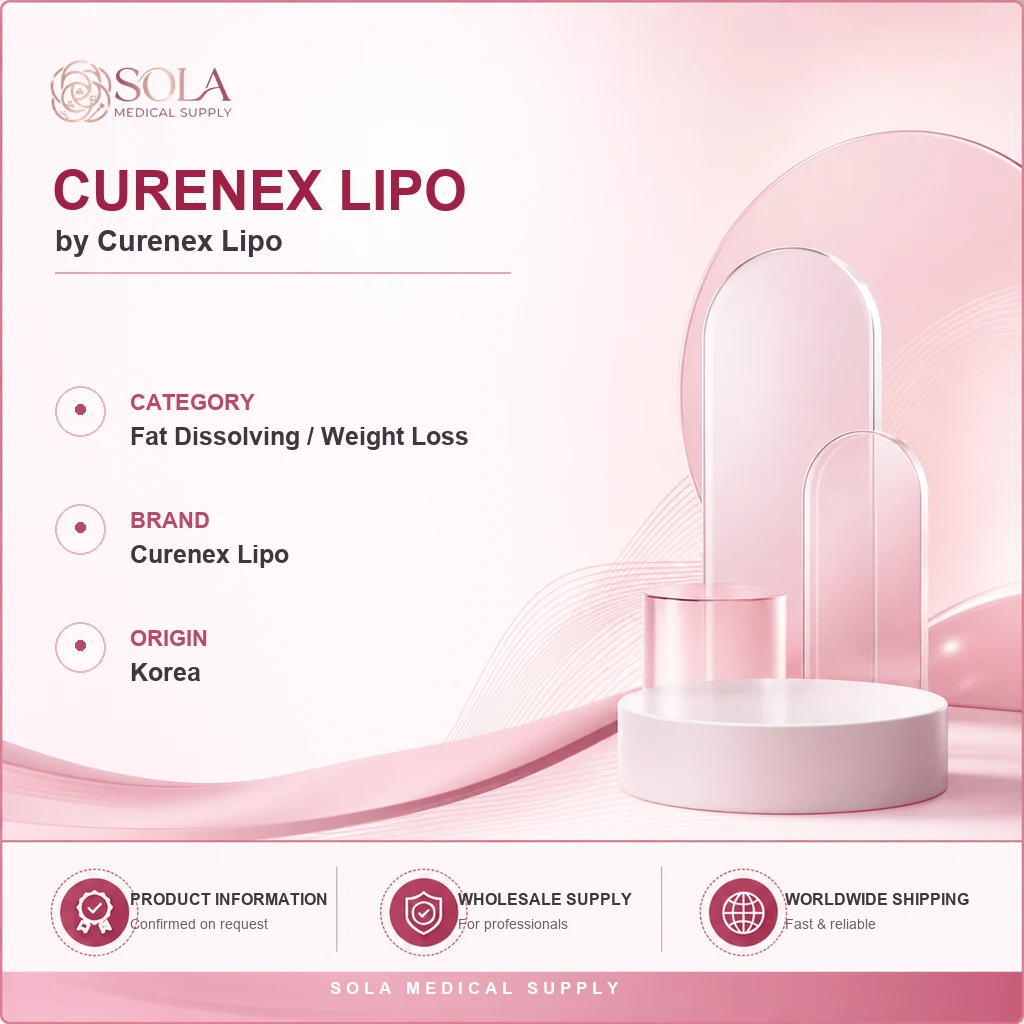
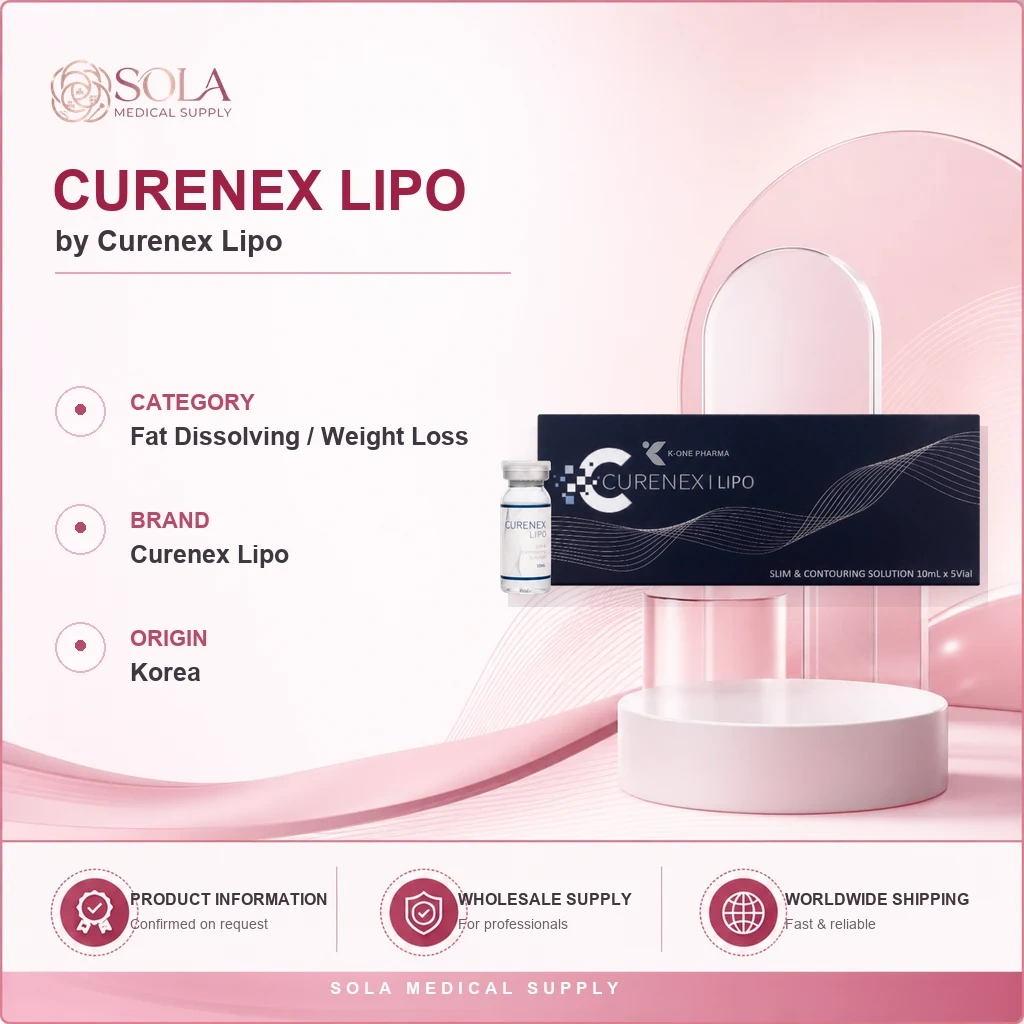
Add verified product packshots to SOLA cards

Changed region(s): [[0.4688, 0.4062, 0.9688, 0.5938]]

diff --git a/products/richese-eyes.html b/products/richese-eyes.html
@@ -4,12 +4,12 @@
 <meta name="description" content="Wholesale sourcing information for Richese Eyes by Richese Eyes. Request availability, pricing and worldwide shipping details from SOLA Medical Supply.">
 <link rel="canonical" href="https://www.solamedicalsupply.com/products/richese-eyes"><meta name="generator" content="SOLA catalogue sync">
 <meta property="og:type" content="product"><meta property="og:title" content="Richese Eyes Wholesale | SOLA Medical Supply">
-<meta property="og:image" content="https://www.solamedicalsupply.com/assets/images/generated/products/richese-eyes.webp">
+<meta property="og:image" content="https://www.solamedicalsupply.com/assets/images/products/richeseeyes.png">
 <link rel="icon" href="../assets/icons/logo.png"><link href="https://fonts.googleapis.com/css2?family=DM+Sans:wght@400;500;600;700&family=Manrope:wght@500;600;700;800&display=swap" rel="stylesheet"><link rel="stylesheet" href="../assets/css/style.css">
-<script type="application/ld+json">{"@context": "https://schema.org", "@type": "Product", "name": "Richese Eyes", "brand": {"@type": "Brand", "name": "Richese Eyes"}, "category": "Meso / Skin Boosters", "image": "https://www.solamedicalsupply.com/assets/images/generated/products/richese-eyes.webp", "url": "https://www.solamedicalsupply.com/products/richese-eyes", "description": "Wholesale sourcing information for Richese Eyes by Richese Eyes. Request availability, pricing and worldwide shipping details from SOLA Medical Supply."}</script></head>
+<script type="application/ld+json">{"@context": "https://schema.org", "@type": "Product", "name": "Richese Eyes", "brand": {"@type": "Brand", "name": "Richese Eyes"}, "category": "Meso / Skin Boosters", "image": "https://www.solamedicalsupply.com/assets/images/products/richeseeyes.png", "url": "https://www.solamedicalsupply.com/products/richese-eyes", "description": "Wholesale sourcing information for Richese Eyes by Richese Eyes. Request availability, pricing and worldwide shipping details from SOLA Medical Supply."}</script></head>
 <body class="article-page product-detail-page"><main>
 <header class="article-hero"><div class="wrap article-wrap"><span>MESO / SKIN BOOSTERS · WHOLESALE</span><h1>Richese Eyes</h1><p>Wholesale sourcing information for Richese Eyes by Richese Eyes. Request availability, pricing and worldwide shipping details from SOLA Medical Supply.</p><div class="article-meta"><a href="../index.html">Home</a> › <a href="../products.html">Products</a> › Richese Eyes</div></div></header>
-<div class="article-cover wrap"><img src="../assets/images/generated/products/richese-eyes.webp" alt="Richese Eyes" loading="eager"></div>
+<div class="article-cover wrap"><img src="../assets/images/products/richeseeyes.png" alt="Richese Eyes" loading="eager"></div>
 <article class="article-body article-wrap"><p class="article-intro">Richese Eyes is listed in SOLA Medical Supply's professional wholesale catalogue. Availability, packaging and shipping options are confirmed for each request.</p>
 <h2>Wholesale product information</h2><p>Professional buyers can request current availability and wholesale pricing for Richese Eyes. Please include the destination country and required quantity so the SOLA team can confirm suitable shipping and handling options.</p>
 <div class="article-callout"><b>Product at a glance</b><ul><li><strong>Brand:</strong> Richese Eyes</li><li><strong>Origin:</strong> Korea</li><li><strong>Category:</strong> Meso / Skin Boosters</li></ul></div>

diff --git a/assets/data/products.js b/assets/data/products.js
@@ -90,7 +90,7 @@ window.SOLA_PRODUCTS = [
   { name: 'Ceret Eyes', category: 'Meso / Skin Boosters', brand: 'Ceret Eyes', origin: 'Korea', tag: 'Skin Booster', image: 'assets/images/generated/products/ceret-eyes.webp' },
   { name: 'Luna Eyes', category: 'Meso / Skin Boosters', brand: 'Luna Eyes', origin: 'Korea', tag: 'Skin Booster', image: 'assets/images/products/lunaeyes.png' },
   { name: 'Teoxan Eyes', category: 'Meso / Skin Boosters', brand: 'Teoxan Eyes', origin: 'Korea', tag: 'Skin Booster', image: 'assets/images/generated/products/teoxan-eyes.webp' },
-  { name: 'Richese Eyes', category: 'Meso / Skin Boosters', brand: 'Richese Eyes', origin: 'Korea', tag: 'Skin Booster', image: 'assets/images/generated/products/richese-eyes.webp' },
+  { name: 'Richese Eyes', category: 'Meso / Skin Boosters', brand: 'Richese Eyes', origin: 'Korea', tag: 'Skin Booster', image: 'assets/images/products/richeseeyes.png' },
   { name: 'Lumi Eyes', category: 'Meso / Skin Boosters', brand: 'Lumi Eyes', origin: 'Korea', tag: 'Skin Booster', image: 'assets/images/products/lumieyes.png' },
   { name: 'RRS HA Eyes', category: 'Meso / Skin Boosters', brand: 'RRS HA', origin: 'Korea', tag: 'Skin Booster', image: 'assets/images/products/rrshaeyes.png' },
   { name: 'Jalupro Eye — Standard', category: 'Meso / Skin Boosters', brand: 'Jalupro', origin: 'Korea', tag: 'Skin Booster', image: 'assets/images/generated/products/jalupro-eye-standard.webp' },
@@ -172,7 +172,7 @@ window.SOLA_PRODUCTS = [
   { name: 'Gana Vline', category: 'Fat Dissolving / Weight Loss', brand: 'Gana Vline', origin: 'Korea', tag: 'Weight Management', image: 'assets/images/products/ganaVline.png' },
   { name: 'Kabelline', category: 'Fat Dissolving / Weight Loss', brand: 'Kabelline', origin: 'Korea', tag: 'Weight Management', image: 'assets/images/products/kabelline.png' },
   { name: 'Lemon Bottle', category: 'Fat Dissolving / Weight Loss', brand: 'Lemon Bottle', origin: 'Korea', tag: 'Weight Management', image: 'assets/images/bestSeller/lemonBottle.png' },
-  { name: 'Lipolab', category: 'Fat Dissolving / Weight Loss', brand: 'Lipolab', origin: 'Korea', tag: 'Weight Management', image: 'assets/images/generated/products/lipolab.webp' },
+  { name: 'Lipolab', category: 'Fat Dissolving / Weight Loss', brand: 'Lipolab', origin: 'Korea', tag: 'Weight Management', image: 'assets/images/products/lipolab.png' },
   { name: 'Ruby Luxury', category: 'Fat Dissolving / Weight Loss', brand: 'Ruby Luxury', origin: 'Korea', tag: 'Weight Management', image: 'assets/images/products/rubyluxury.png' },
   { name: 'Slimqeen', category: 'Fat Dissolving / Weight Loss', brand: 'Slimqeen', origin: 'Korea', tag: 'Weight Management', image: 'assets/images/generated/products/slimqeen.webp' },
   { name: 'Muscle', category: 'Fat Dissolving / Weight Loss', brand: 'Muscle', origin: 'Korea', tag: 'Weight Management', image: 'assets/images/generated/products/muscle.webp' },

diff --git a/scripts/composite_product_packshots.py b/scripts/composite_product_packshots.py
@@ -1,0 +1,50 @@
+"""Composite verified, transparent product packshots onto SOLA product cards."""
+
+from pathlib import Path
+from PIL import Image, ImageFilter
+
+
+ROOT = Path(__file__).resolve().parents[1]
+GENERATED = ROOT / "assets/images/generated/products"
+CUTOUTS = ROOT / "assets/images/product-cutouts"
+
+# Keep the product inside the right-hand presentation area and above the badges.
+PLACEMENTS = {
+    "youthfill-fine": (535, 245, 955, 745),
+    "curenex-lipo": (500, 300, 980, 710),
+}
+
+
+def fit_packshot(image: Image.Image, box: tuple[int, int, int, int]) -> tuple[Image.Image, int, int]:
+    alpha = image.getchannel("A")
+    bounds = alpha.getbbox()
+    if not bounds:
+        raise ValueError("Packshot has no visible pixels")
+    image = image.crop(bounds)
+    x1, y1, x2, y2 = box
+    max_w, max_h = x2 - x1, y2 - y1
+    scale = min(max_w / image.width, max_h / image.height)
+    size = (max(1, round(image.width * scale)), max(1, round(image.height * scale)))
+    image = image.resize(size, Image.Resampling.LANCZOS)
+    return image, x1 + (max_w - size[0]) // 2, y1 + (max_h - size[1]) // 2
+
+
+def composite(slug: str, box: tuple[int, int, int, int]) -> None:
+    card_path = GENERATED / f"{slug}.webp"
+    cutout_path = CUTOUTS / f"{slug}.png"
+    card = Image.open(card_path).convert("RGBA")
+    packshot = Image.open(cutout_path).convert("RGBA")
+    packshot, x, y = fit_packshot(packshot, box)
+
+    shadow_alpha = packshot.getchannel("A").filter(ImageFilter.GaussianBlur(12))
+    shadow = Image.new("RGBA", packshot.size, (94, 49, 69, 0))
+    shadow.putalpha(shadow_alpha.point(lambda a: round(a * 0.20)))
+    card.alpha_composite(shadow, (x + 8, y + 12))
+    card.alpha_composite(packshot, (x, y))
+    card.convert("RGB").save(card_path, "WEBP", quality=94, method=6)
+    print(f"Updated {card_path.relative_to(ROOT)}")
+
+
+if __name__ == "__main__":
+    for product_slug, placement in PLACEMENTS.items():
+        composite(product_slug, placement)
